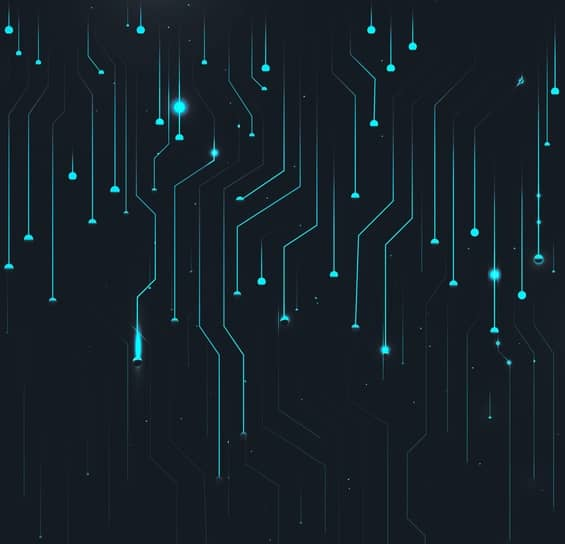
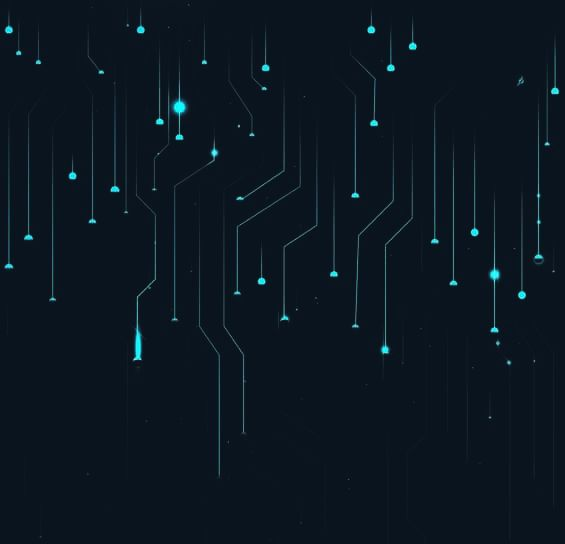
optimizing header img

diff --git a/src/components/tailwindComps/Hero.js b/src/components/tailwindComps/Hero.js
@@ -9,7 +9,7 @@ import emailjs from 'emailjs-com';
 
 import Confirm from './Confirmation'
 import Logo from '../../images/logo.png'
-import BG from '../../images/techBG.jpg'
+import BG from '../../images/resizeBGBU.jpg'
 const navigation = [
   { name: 'Home', href: '/' },
   { name: 'Product', href: '/product' },
